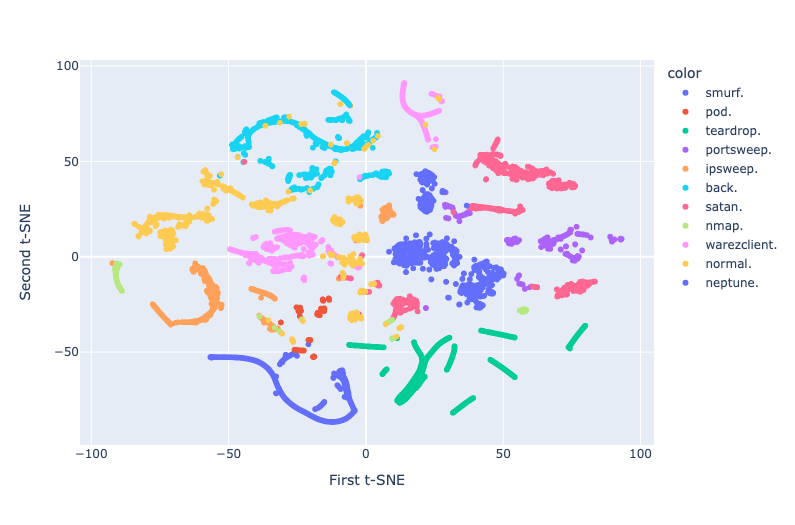
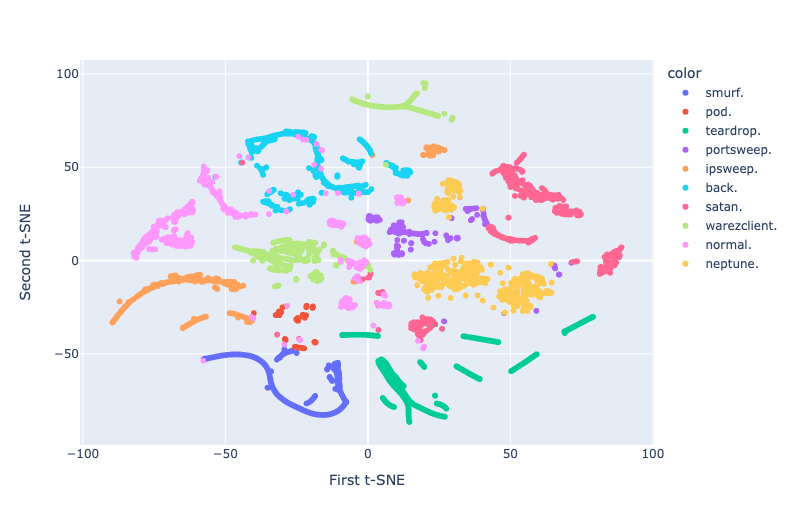
update stuff

diff --git a/Code/PythonCode/CIL/utils/inc_net.py b/Code/PythonCode/CIL/utils/inc_net.py
@@ -19,13 +19,13 @@ def get_convnet(convnet_type: str, pretrained: bool = False) -> tuple[nn.Module,
     elif name == "memo_resnet32":
         return get_memo_resnet32()
     elif name == "kdd_memo_ann":
-        return get_memo_ann(input_dim=121)
+        return get_memo_ann(input_dim=120)
     elif name == "kdd_memo_dnn":
-        return get_memo_dnn(input_dim=121)
+        return get_memo_dnn(input_dim=120)
     elif name == "kdd_ann":
-        return get_ann()
+        return get_ann(input_dim=120)
     elif name == "kdd_dnn":
-        return get_dnn()
+        return get_dnn(input_dim=120)
     elif name == "cic_ids_ann":
         return get_ann(input_dim=69)
     elif name == "ton_iot_network_ann":

diff --git a/Code/PythonCode/CIL/convs/ann.py b/Code/PythonCode/CIL/convs/ann.py
@@ -17,7 +17,7 @@ class ANN(nn.Module):
         return {"features": self.layers(x)}
 
 
-def get_ann(input_dim: int = 121):
+def get_ann(input_dim: int = 120):
     """Basic fully connected net with input -> Linear -> Relu -> Linear -> Relu"""
     return ANN(input_dim=input_dim)
 
@@ -41,6 +41,6 @@ class DNN(nn.Module):
         return {"features": self.layers(x)}
 
 
-def get_dnn(input_dim: int = 121):
+def get_dnn(input_dim: int = 120):
     """Basic fully connected net with input -> Linear -> Relu -> Linear -> Relu"""
     return DNN(input_dim=input_dim)

diff --git a/Code/PythonCode/CIL/utils/data_manager.py b/Code/PythonCode/CIL/utils/data_manager.py
@@ -124,7 +124,7 @@ class DataManager(object):
             if dataset_name == "cic-ids-2017":
                 order = [4, 0, 8, 2, 3, 7, 9, 6, 5, 1, 10, 11]
             elif dataset_name == "kdd99":
-                order = [4, 2, 0, 7, 1, 6, 10, 8, 9, 5, 3]
+                order = [3, 2, 0, 8, 6, 9, 1, 7, 5, 4]
             elif dataset_name == "unsw-nb15":
                 order = [6, 5, 3, 4, 2, 7, 0, 1, 8, 9]
             elif dataset_name == "ton-iot-network":
